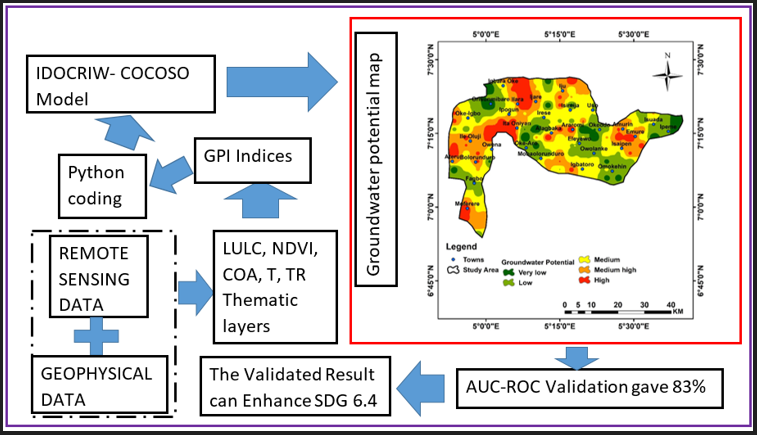
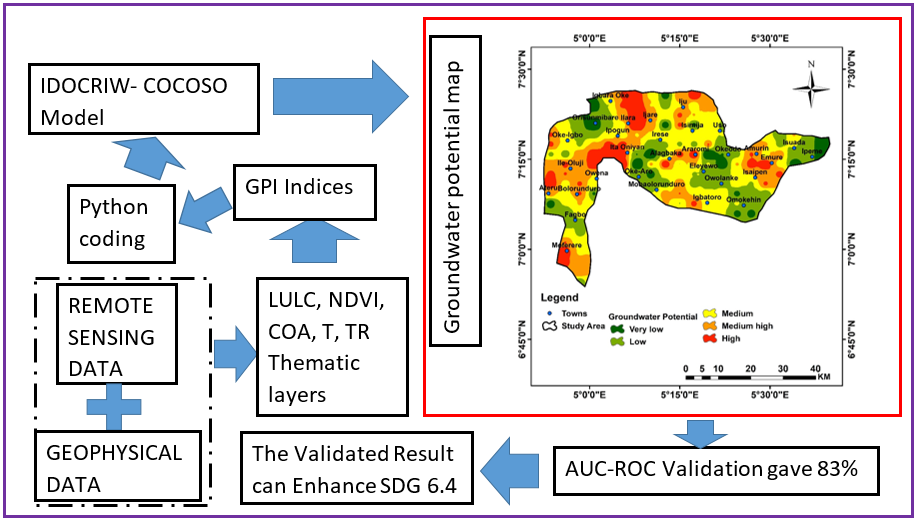
review images for personal website

diff --git a/_sass/layout/_sidebar.scss b/_sass/layout/_sidebar.scss
@@ -150,13 +150,13 @@
 
 .author__bio {
   margin: 0;
-  font-size: $type-size-6;   // added this line to make text smaller on small screens than default
+  font-size: $type-size-7;   // added this line to make text smaller on small screens than default
   line-height: var(--base-line-height); // use theme variable for consistency
 
   @include breakpoint($large) {
     margin-top: 10px;
     margin-bottom: 20px;
-    font-size: $type-size-4; // added this line to make it even larger on desktop
+    font-size: $type-size-5; // added this line to make it even larger on desktop
   }
 }
 

diff --git a/_sass/layout/_page.scss b/_sass/layout/_page.scss
@@ -20,7 +20,7 @@
   @include breakpoint($large) {
     @include span(10 of 12 last);
     @include prefix(0.5 of 12);
-    @include suffix(0.5 of 12); 
+    @include suffix(0.75 of 12); 
   }
 
   .page__inner-wrap {

diff --git a/_portfolio/ml_gpot.md b/_portfolio/ml_gpot.md
@@ -1,17 +1,18 @@
 ---
 title: "ML algorithms for groundwater sustainability in a data scarce region"
-excerpt: "Study area <br/><img src='/images/portfolio/ml_gpot/1.PNG'>"
+excerpt: "Study area <br/><img src='/images/portfolio/ml_gpot/1.JPG'>"
 collection: portfolio
+author_profile: false
 ---
 ---
 # Description
-Published work, Ecological Frontiers (2026) [Link](https://www.sciencedirect.com/science/article/abs/pii/S2950509726000237) 
+_Published work - Ecological Frontiers (2026). [Link](https://www.sciencedirect.com/science/article/abs/pii/S2950509726000237)_
 
 ---
 # Highlights 
 - Fishnet approach have been used to derive data partitioning for the ML modelling.
 
-- Multicollinarity detection was employed to select the most suitable remote sensing parameters.
+- Multicollinearity detection was employed to select the most suitable remote sensing parameters.
 
 - ML algorithms (SVM, RF, xGBoost, AdaBoost) have been utilized and compared with AHP model for their groundwater sustainability predictive abilities. 
 
@@ -20,35 +21,57 @@ Published work, Ecological Frontiers (2026) [Link](https://www.sciencedirect.com
 ---
 # Abstract
 Humanity's usage of water cannot be halted, as water is a necessary resource for existence and is highly valued in a wide variety of quotidian usages and initiatives. This study aimed to predict and define groundwater potential (GWP) zones in the Edo North region of Nigeria. This is achieved by combining machine learning (ML) models, such as random forest (RF), support vector machine (SVM), adaptive boosting (AdaBoost), and eXtreme gradient boost (XGB), with analytical hierarchy process (AHP)—multi-criteria decision analysis (MCDA). Multiple indices, including anthropological (normalized difference vegetation index), hydrogeological (geology and lineament density), hydrological (rainfall distribution and proximity to surface water bodies), and topographical factors (slope, aspect, drainage density, and topographic wetness index), were utilized as groundwater-influencing parameters. Prognostication competencies of these factors were established through the application of multicollinearity (MC) evaluation. The AHP approach was used to weight and scale these influencing variables and determine their impact on groundwater prospects. Given the constrained amount of data available, ‘CreateFishnet_management’ requires training the ML models with 100% borehole data. Every model's reliability was quantified using the area under the receiver-operating characteristic (AU-ROC) curve. The four (4) machine learning algorithms and AHP model divided the GWP zone into four distinct groups: high, moderate, low, and very low. The RF, AdaBoost, SVM, XGB, and AHP models show that the beneficial GWP zones encompass 41.59%, 36.42%, 45.93%, 25.30%, and 14.03% of the research region, respectively. The model dependability using measured AU-ROC curve metrics indicates that the RF model has the greatest rate of success (78.00%), preceding the AdaBoost (77.00%), SVM (73.00%), XGB (71.00%), and AHP (50.00%) models. This multi-approach promotes long-term groundwater governance in the study area
+
+---
+# Methodology
 <figure>
-  <img src= "/images/portfolio/ml_gpot/2.PNG" alt="Fishnet location template">
+  <img src= "/images/portfolio/ml_gpot/2.JPG" alt="Fishnet location template">
   <figcaption><em>Fishnet location used to extract values of influencing variables into the modelling. It was also adopted in selecting appropriate target points from the borehole yield map which served as the spatial representation of the target variable in the study region </em></figcaption>
 </figure>
+
 <figure>
   <img src= "/images/portfolio/ml_gpot/3.PNG" alt="Methodology flowchart">
   <figcaption><em>Flowchart detailing the whole workflow involved in the data driven ML approach applied to the assessment of groundwater sustainability in the area </em></figcaption>
 </figure>
+
+---
+# Results
 <figure>
-  <img src= "/images/portfolio/ml_gpot/4.PNG" alt="Groundwater potential maps (SVM and xGBoost)">
-  <figcaption><em>Groundwater potential maps of SVM and xGBoost models showing how the area have been classified into different groundwater potential classes</em></figcaption>
+  <img src= "/images/portfolio/ml_gpot/4.JPG" alt="Groundwater potential map (AdaBoost)">
+  <figcaption><em>Groundwater potential map of AdaBoost model highlighting the groundwater potential divisions of the study area</em></figcaption>
 </figure> 
 
 <figure>
-  <img src= "/images/portfolio/ml_gpot/5.PNG" alt="Groundwater potential maps (RF and AdaBoost)">
-  <figcaption><em>Groundwater potential maps of RF and AdaBoost models showing how the area have been partitioned into different groundwater potential domains</em></figcaption>
+  <img src= "/images/portfolio/ml_gpot/5.JPG" alt="Groundwater potential maps (SVM and xGBoost)">
+  <figcaption><em>Groundwater potential map of RF model indicating the groundwater potential zoning of the studya area</em></figcaption>
 </figure>
 
 <figure>
-  <img src= "/images/portfolio/ml_gpot/6.PNG" alt="Groundwater potential map (AHP)">
+  <img src= "/images/portfolio/ml_gpot/6.JPG" alt="Groundwater potential map (xGBoost)">
+  <figcaption><em>Groundwater potential map of xGBoost model showing how the area have been classified into different groundwater potential classes</em></figcaption>
+</figure>
+
+<figure>
+  <img src= "/images/portfolio/ml_gpot/7.JPG" alt="Groundwater potential map (SVM)">
+  <figcaption><em>Groundwater potential map of SVM model showing how the area have been partitioned into different groundwater potential domains</em></figcaption>
+</figure>
+
+<figure>
+  <img src= "/images/portfolio/ml_gpot/8.JPG" alt="Groundwater potential map (AHP)">
   <figcaption><em>AHP based Groundwater potential map of the study area</em></figcaption>
 </figure>
 
 <figure>
-  <img src= "/images/portfolio/ml_gpot/7.PNG" alt="AUC-ROC comparison of the models">
+  <img src= "/images/portfolio/ml_gpot/9.JPG" alt="AUC-ROC comparison of the models">
   <figcaption><em>AUC-ROC curve showing the predictive abilities of the models and ultimately showing that, all ML models outperform the AHP model</em></figcaption>
+</figure>
+
+<figure>
+  <img src= "/images/portfolio/ml_gpot/10.JPG" alt="Sensitivity analysis of AHP result">
+  <figcaption><em>Bar chart of sensisitivity analysis of AHP model indicating that lineament density (LD) and geology (GY) are critical parameters in the modelling</em></figcaption>
 </figure>
 
 ---
 # Future research direction
 
-We trained our ML models using full training datasets and predicted their abilities using full pack of unseen datasets. Future research could employ cross validation to a single datasets for training and testing to ensure and check models generalizability. Furthermore, it still a major cause of debate whether target variable (in our case, borehole yield data) should be used in a continous manner rather than in a classified manner as we've done in our research. Future works could test these two approaches before modelling
+We trained our ML models using full training datasets and predicted their abilities using full pack of unseen datasets. Future research could employ cross validation to a single datasets for training and testing to ensure and check models generalizability. Future works could test classified as well as continous values of target variable (i.e. borehole yield) to select the best approach for the ML modelling.

diff --git a/_portfolio/publications.md b/_portfolio/publications.md
@@ -1,14 +1,9 @@
 ---
 title: "My Under Review Papers"
-excerpt: "Caption <br/><img src='/images/portfolio/ml_gpot/8.PNG'>"
+excerpt: "Caption <br/><img src='/images/portfolio/ml_gpot/11.PNG'>"
 collection: portfolio
+author_profile: false
 ---
 
-1.  Mogaji, K.A., Eval, J.F., Afolabi, D.O., **Mudashiru, S.A**., Effiong, A.J & Adegoke, Q.O (2025). Landslide susceptibility assessment using     Catastrophe Theory and Analytical Hierarchy Process Concepts in Southwestern Nigeria: Insights from geophysical, geological and meteorological data sets.  Earth Systems and Environment (Springer Nature).
+1.  Mogaji, K.A., Eval, J.F., Afolabi, D.O., **Mudashiru, S.A**., Effiong, A.J & Adegoke, Q.O (2025). Landslide susceptibility assessment using     Catastrophe Theory and Analytical Hierarchy Process Concepts in Southwestern Nigeria: Insights from geophysical, geological and meteorological data sets.  Discover Geoscience (Springer Nature).
 [View Abstract (pdf)](/files/abstract_landslide_ct.pdf)
-
-2.  Mogaji, K.A., **Mudashiru, S.A**., Ozegin, K.O & Oguntade, S.S (2025). Groundwater potential assessment leveraging the hybrid objective model (IDOCRIW-CoCoSo) in the basement terrain of Nigeria: insights from remote sensing and geophysical datasets. Cleaner Water (Elsevier).
-[View Abstract (pdf)](/files/abstract_gpot_idocriw_cocoso.pdf)
-
-3.  **Mudashiru, S.A**., Mogaji, K.A & Ozegin, K.O (2025). Modelling groundwater vulnerability leveraging a developed Python-coded IDOCRIW-MAUT model in a heterogeneous geologic environment of Nigeria. Geosystems and Geoenvironment (Elsevier). 
-[View Abstract (pdf)](/files/abstract_gvul_idocriw_maut.pdf)

diff --git a/_portfolio/idocriw_cocoso_gpot.md b/_portfolio/idocriw_cocoso_gpot.md
@@ -2,18 +2,19 @@
 title: "Hybrid objective model (IDOCRIW-CoCoSo) optimizes groundwater potential"
 excerpt: "Graphical abstract <br/><img src='/images/portfolio/Idocriw_cocoso/1.PNG'>"
 collection: portfolio
+author_profile: false
 ---
 ---
 # Description
-Published work, Cleaner Water (2026) [Link](https://www.sciencedirect.com/science/article/pii/S2950263226000694) 
+_Published work - Cleaner Water (2026). [Link](https://www.sciencedirect.com/science/article/pii/S2950263226000694)_
 
 ---
 # Highlights 
-- Applied Integrated Determination of Objective Criteria Weights-Combined Compromise Solution (IDOCRIW-CoCoSo) multi-criteria decision-making approach.
+- Integrated Determination of Objective Criteria Weights-Combined Compromise Solution (IDOCRIW-CoCoSo) multi-criteria decision-making approach have been employed to model groundwater potential of the area.
 
-- Utilized remote sensing and geophysical conditioning datasets for the modelling.
+- Integration of Remote sensing and geophysical datasets proved effective for the modelling.
 
-- Used other objective models (CRITIC-CoCoSo, and Mean Weighted CoCoSo) as comparative tools. 
+- Comparative analysis with objective models (CRITIC-CoCoSo, and Mean Weighted CoCoSo) ensured confidence in the adopted approach. 
 
 ---
 # Abstract
